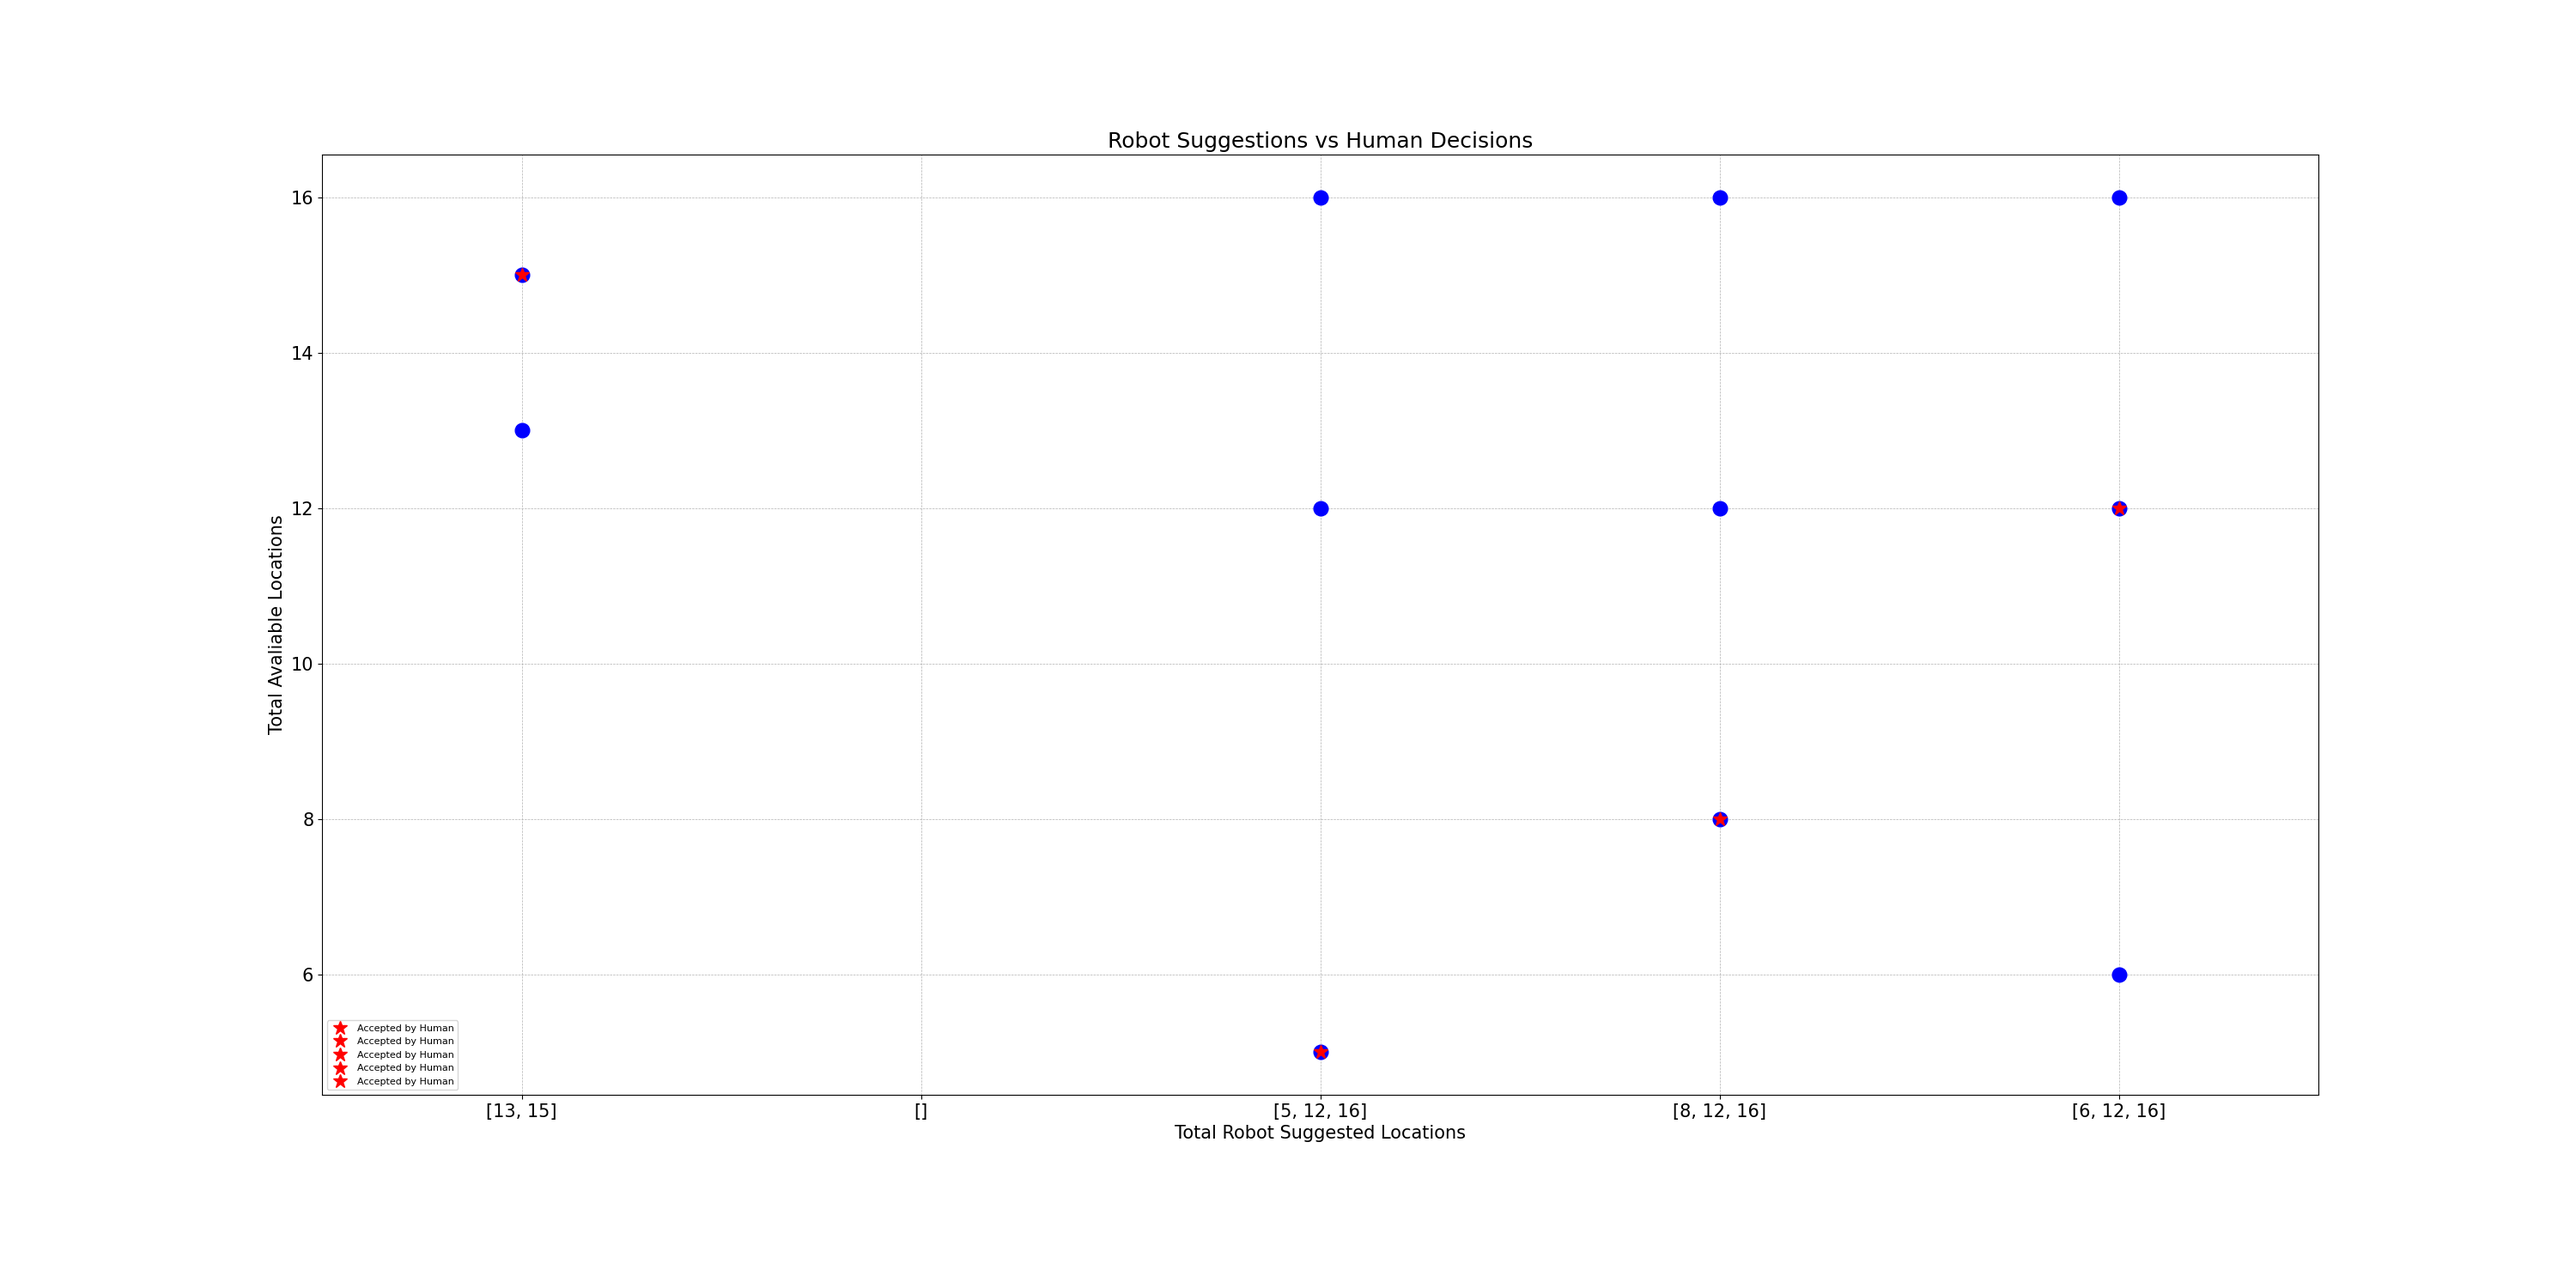
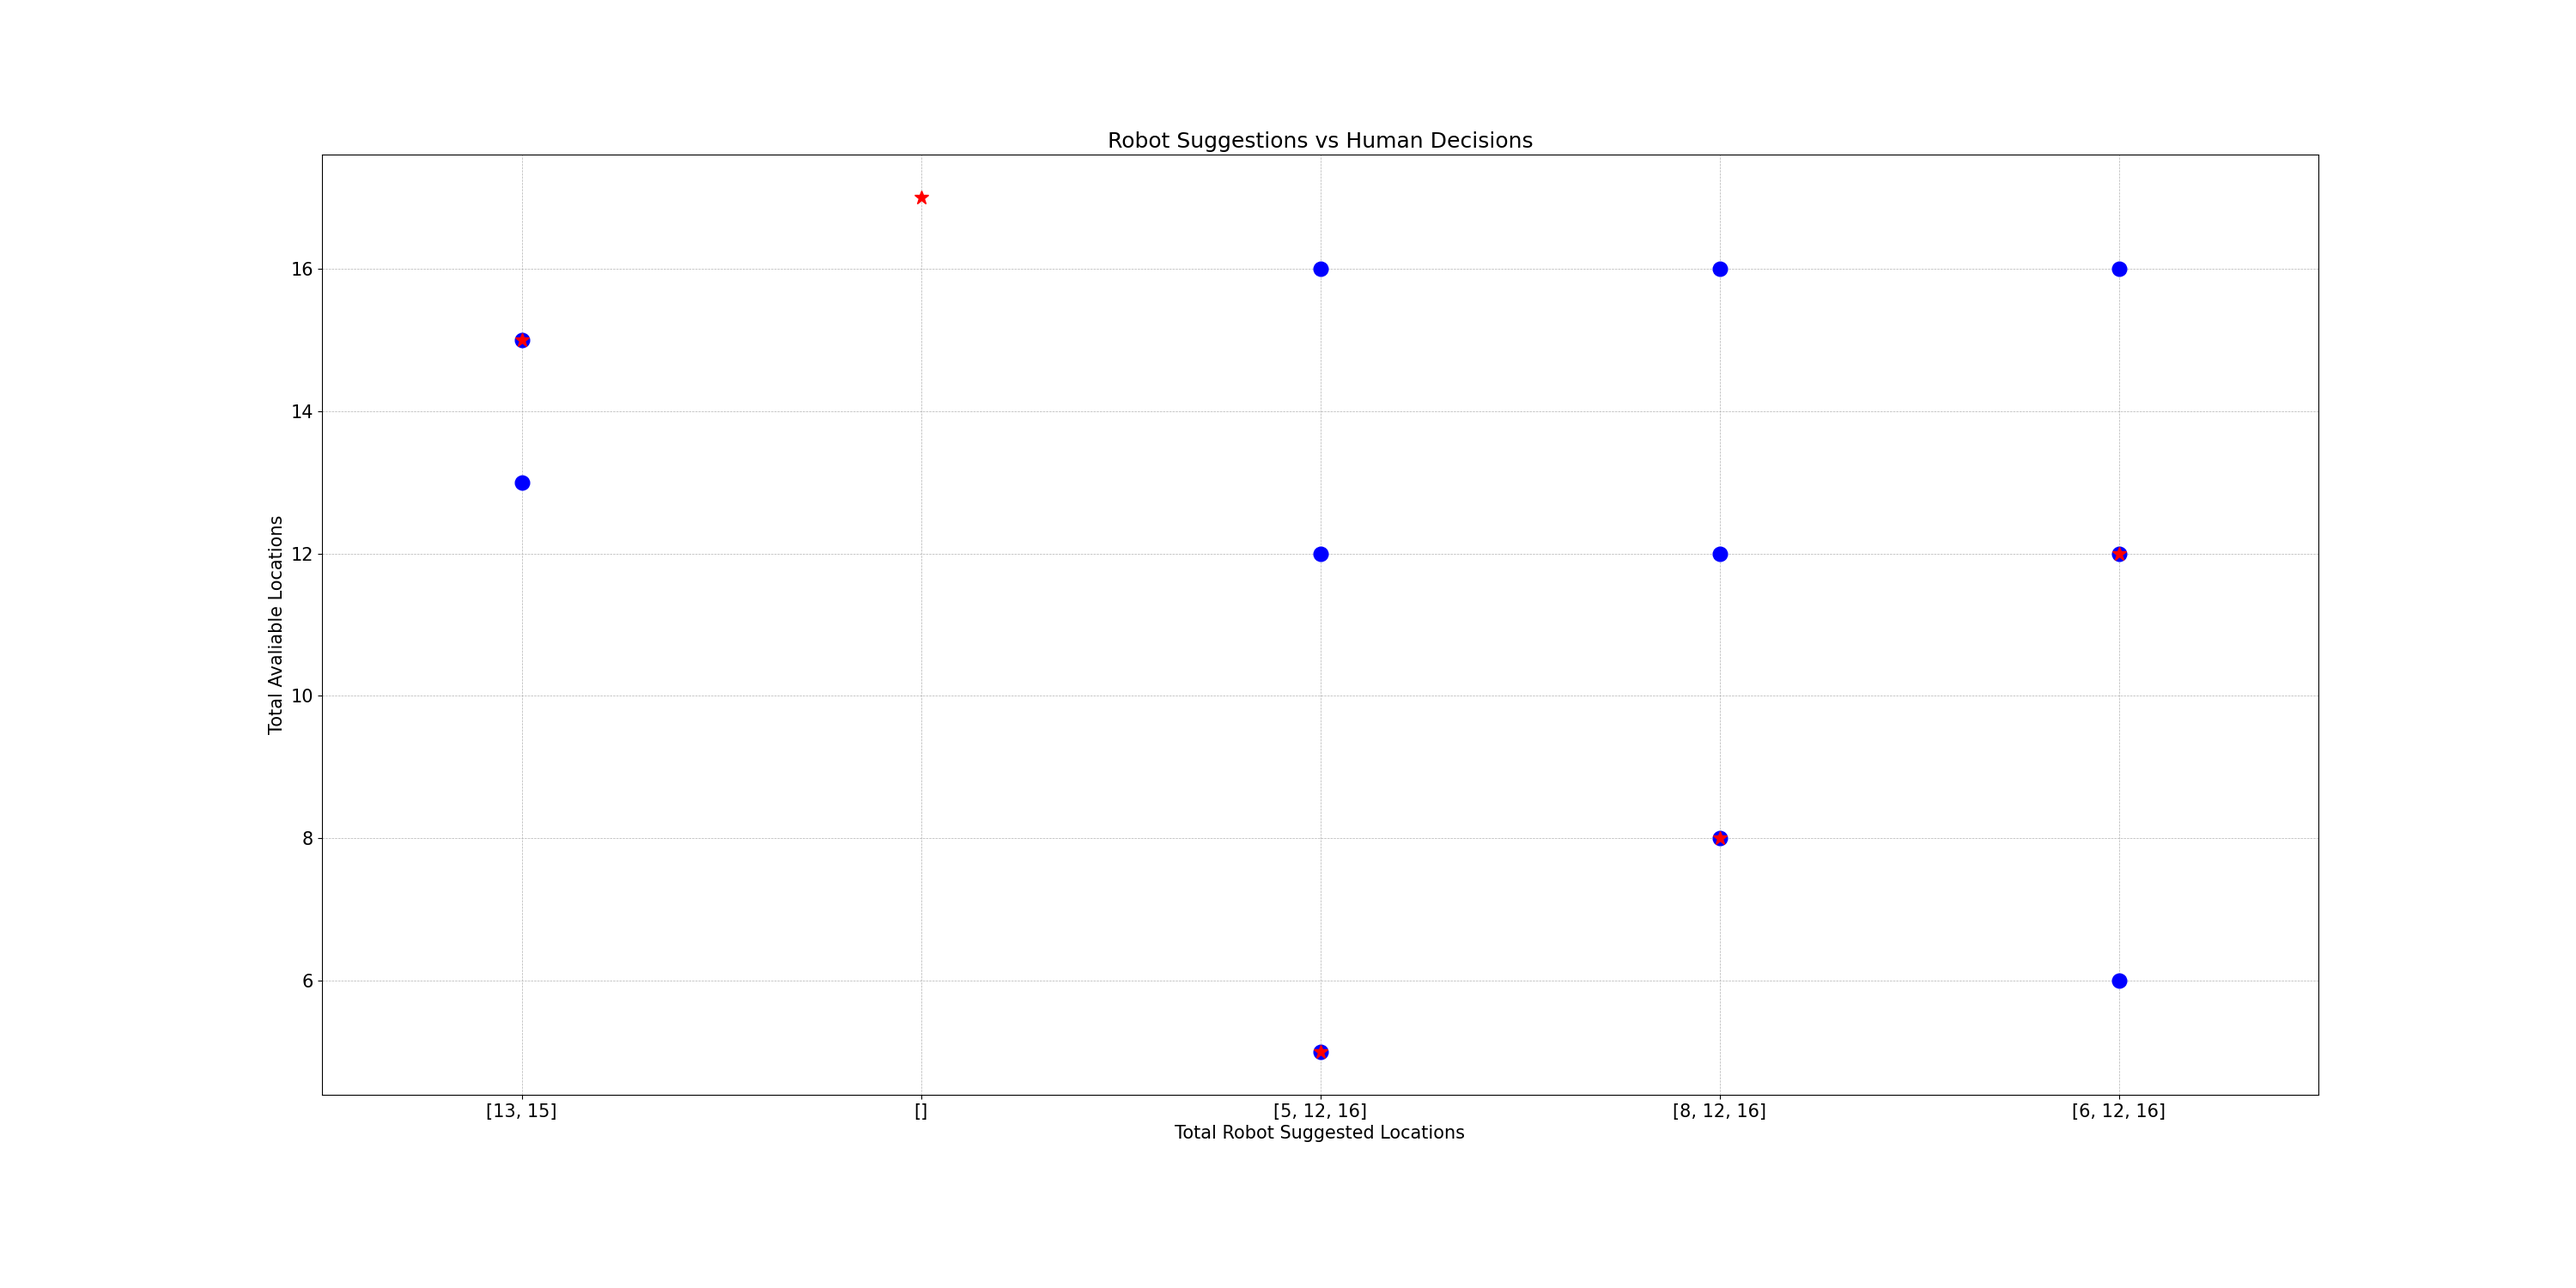
Updated Data Visualization Tools

Changed region(s): [[0.124, 0.7973, 0.186, 0.8587], [0.527, 0.8587, 0.558, 0.8893]]

diff --git a/flask/New Sugggestion Framework/data_visualization.py b/flask/New Sugggestion Framework/data_visualization.py
@@ -1,10 +1,11 @@
+from ast import Break
 import os, json
 from turtle import color
 import numpy as np
 import matplotlib.pyplot as plt
 
 def main():
-
+    print("Current Directory Path: ", os.getcwd())
     for filename in os.scandir('./data'):
         if filename.is_file():
             file_name = os.path.basename(filename.path)
@@ -28,12 +29,18 @@ def user_steps_calculations(file_name, user_data, user_steps, robot_suggestions,
         human_accepted_locations = []
 
         for robot_suggestion in step["robotSuggestions"]:
-            robot_suggested_locations.append(robot_suggestion.get('index'))
+            if (robot_suggestion is not None):
+                robot_suggested_locations.append(robot_suggestion.get('index'))
+            else:
+                robot_suggested_locations.append(-1)
         robot_suggestions.append(robot_suggested_locations)
 
         human_decision = step["acceptedRobotSuggestion"]
         if human_decision is not None:
             human_accepted_locations.append(human_decision.get('index'))
+        else:
+            user_free_selection = step["userFreeSample"]
+            human_accepted_locations.append(user_free_selection.get('index'))
         human_decisions.append(human_accepted_locations)
 
     print("robot_suggestions for User " + file_name.replace('.json', ': '), robot_suggestions)
@@ -71,7 +78,7 @@ def plot_user_step(file_name, current_user_step, current_robot_suggestions, curr
     plt.grid(True, linestyle='--', linewidth=0.5)
     plt.subplots_adjust(bottom=0.15)
 
-    plt.legend(loc="lower left", fontsize=8)
+    # plt.legend(loc="lower left", fontsize=8)
 
     current_path = os.path.dirname(os.path.abspath(__file__))
     my_path = os.path.join(current_path, 'figs_test', str(file_name).replace('.json', ''))
